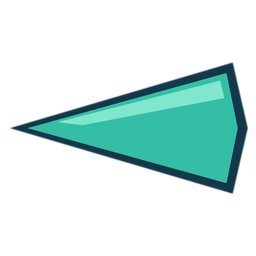
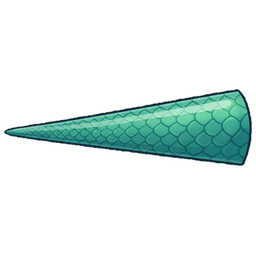
Smaragddrache: echte Schwanzspitze des Users, Schwanzspitzen passen sich dem Körper an
Die Schwanzspitze stammt jetzt vom User (freigestellt, das Schachbrett
war eingebrannt). Bild-Schwanzspitzen werden auf den sichtbaren Teil
zugeschnitten und so gezeichnet, dass das breite Ende so dick wie der
Körper ist. Sie ersetzen die letzten Glieder und ragen nicht über das
echte Körperende hinaus. Service-Worker v6.

Claude-Session: https://claude.ai/code/session_018yCfLT8z7KqNYgR8QeUifF

Changed region(s): [[0.0, 0.25, 1.0, 0.7812]]

diff --git a/index.html b/index.html
@@ -551,6 +551,17 @@ function stamp(img, size) {
   const g = c.getContext("2d"); g.imageSmoothingQuality = "high"; g.drawImage(img, (size - w) / 2, (size - h) / 2, w, h);
   return c;
 }
+/** Schwanzspitze: auf den sichtbaren Teil zuschneiden und das Seitenverhältnis merken (Spitze links, breites Ende rechts). */
+function stampTail(img) {
+  const full = stamp(img, 160), d = full.getContext("2d").getImageData(0, 0, 160, 160).data;
+  let x0 = 160, y0 = 160, x1 = -1, y1 = -1;
+  for (let y = 0; y < 160; y++) for (let x = 0; x < 160; x++) if (d[(y * 160 + x) * 4 + 3] > 40) { if (x < x0) x0 = x; if (x > x1) x1 = x; if (y < y0) y0 = y; if (y > y1) y1 = y; }
+  if (x1 < x0) return null;
+  const w = x1 - x0 + 1, h = y1 - y0 + 1, c = document.createElement("canvas"); c.height = 40; c.width = Math.max(8, Math.round((40 * w) / h));
+  c.getContext("2d").drawImage(full, x0, y0, w, h, 0, 0, c.width, c.height);
+  c.aspect = w / h;
+  return c;
+}
 const loadImg = src => new Promise((res, rej) => { const im = new Image(); im.onload = () => res(im); im.onerror = () => rej(new Error(src)); im.src = src; });
 async function loadImageSkins() {
   let list;
@@ -565,7 +576,7 @@ async function loadImageSkins() {
     const dir = `skins/${e.ordner}/`;
     // Kopf und Glied sind Pflicht, die Schwanzspitze ist freiwillig. Fehlt etwas, bleibt die eingebaute Darstellung in der Hauptfarbe.
     jobs.push(Promise.all([loadImg(dir + "kopf.png"), loadImg(dir + "glied.png"), loadImg(dir + "schwanz.png").catch(() => null)])
-      .then(([h, g, t]) => { skin.img = { head: stamp(h, 64), seg: stamp(g, 28), tail: t ? stamp(t, 40) : null }; })
+      .then(([h, g, t]) => { skin.img = { head: stamp(h, 64), seg: stamp(g, 28), tail: t ? stampTail(t) : null }; })
       .catch(() => {}));
   }
   await Promise.all(jobs);
@@ -774,18 +785,22 @@ function drawSnake(sn, i, now) {
   ctx.globalAlpha = sn.ghost ? 0.4 : 1;
   const P = segPositions(sn), n = P.length / 2, pal = skin.pal, B = app.bulges[i];
   for (let q = B.length - 1; q >= 0; q--) if ((now - B[q]) * 30 > n + 4) B.splice(q, 1);
-  for (let k = n - 1; k >= 0; k--) {                      // vom Schwanz zum Kopf, damit vordere Glieder oben liegen
-    let sc = k > n - 7 ? 0.45 + 0.55 * ((n - 1 - k) / 6) : 1;          // spitzer Schwanz
+  // Bild-Schwanzspitze: ersetzt die letzten Glieder (ragt also nicht über das echte Körperende hinaus),
+  // das breite Ende ist so dick wie der Körper
+  let last = n - 1;
+  const tail = skin.img && skin.img.tail;
+  if (tail && n > 4) {
+    const th = segR * 2, cut = Math.min(n - 3, Math.max(2, Math.round((th * Math.min(tail.aspect, 4)) / (SEG_GAP * SC))));
+    const tx = P[(n - 1) * 2], ty = P[(n - 1) * 2 + 1], ax = P[(n - 1 - cut) * 2], ay = P[(n - 1 - cut) * 2 + 1];
+    ctx.save(); ctx.translate(tx, ty); ctx.rotate(Math.atan2(ay - ty, ax - tx));
+    ctx.drawImage(tail, 0, -th / 2, Math.hypot(ax - tx, ay - ty) + segR * 0.6, th); ctx.restore();
+    last = n - 1 - cut;
+  }
+  for (let k = last; k >= 0; k--) {                       // vom Schwanz zum Kopf, damit vordere Glieder oben liegen
+    let sc = !tail && k > n - 7 ? 0.45 + 0.55 * ((n - 1 - k) / 6) : 1;  // ohne Bild-Spitze: Glieder werden zum Ende kleiner
     for (const t0 of B) { const dk = k - (now - t0) * 30; sc *= 1 + 0.38 * Math.exp(-dk * dk / 3); }   // Futter-Beule
     const r = segR * sc, x = P[k * 2], y = P[k * 2 + 1];
-    if (skin.img) {
-      if (k === n - 1 && n > 1 && skin.img.tail) {        // Schwanzspitze: gedreht, Spitze zeigt vom Körper weg
-        const tr2 = segR * 1.5;
-        ctx.save(); ctx.translate(x, y); ctx.rotate(Math.atan2(P[k * 2 - 1] - y, P[k * 2 - 2] - x));
-        ctx.drawImage(skin.img.tail, -tr2, -tr2, tr2 * 2, tr2 * 2); ctx.restore();
-      } else ctx.drawImage(skin.img.seg, x - r, y - r, r * 2, r * 2);
-      continue;
-    }
+    if (skin.img) { ctx.drawImage(skin.img.seg, x - r, y - r, r * 2, r * 2); continue; }
     ctx.drawImage(disc(pal[k % pal.length]), x - r, y - r, r * 2, r * 2);
     if (skin.dot && k % 3 === 1) ctx.drawImage(disc(skin.dot), x - r * 0.42, y - r * 0.42, r * 0.84, r * 0.84);
   }

diff --git a/sw.js b/sw.js
@@ -1,5 +1,5 @@
 // Worm Attack Service-Worker: macht das Spiel installierbar und (gegen den Computer) offline spielbar.
-const VERSION = "snakeduell-v5";
+const VERSION = "snakeduell-v6";
 const PEER = "https://cdn.jsdelivr.net/npm/peerjs@1.5.5/dist/peerjs.min.js";
 const SHELL = ["./", "./index.html", "./manifest.webmanifest", "./icons/icon-180.png", "./icons/icon-192.png", "./icons/icon-512.png"];
 

diff --git a/CLAUDE.md b/CLAUDE.md
@@ -160,8 +160,11 @@ Im Menü läuft im Hintergrund ein Demo-Duell Bot gegen Bot.
   beim Linksfahren, damit sie nie auf dem Kopf stehen.
 - Vorhandene Bild-Designs: `beispiel` („Vorlage“, selbst gezeichnet, mit SVG-Quellen) und `drache`
   („Smaragddrache“): Kopf und Glied vom User mit kie.ai erzeugt, von Claude freigestellt (das Schachbrettmuster
-  war eingebrannt), Kopf auf den Kopf zugeschnitten, Loch im Ring gefüllt. Die Schwanzspitze ist vorläufig
-  nachgezeichnet, weil die Datei des Users nicht ankam.
+  war eingebrannt), Kopf auf den Kopf zugeschnitten, Loch im Ring gefüllt. Alle drei Bilder (Kopf, Glied,
+  Schwanzspitze) stammen vom User.
+- Schwanzspitze (`stampTail`): wird auf den sichtbaren Teil zugeschnitten. Im Spiel ist das breite Ende so dick
+  wie der Körper, und die Spitze ersetzt die letzten Glieder, ragt also nicht über das echte Körperende hinaus.
+  Mit Bild-Spitze werden die Glieder zum Ende hin nicht mehr kleiner.
 - Nur selbst erzeugte Bilder ins Repo, keine Figuren aus bestehenden Spielen, Filmen oder Serien.
 - Gemessen im simulierten Handy ohne Grafikkarte: zwei Würmer mit Höchstlänge kosten etwa 6 ms pro Bild, bei
   üblicher Länge etwa ein Drittel. Auf echten Handys noch nicht gemessen.
